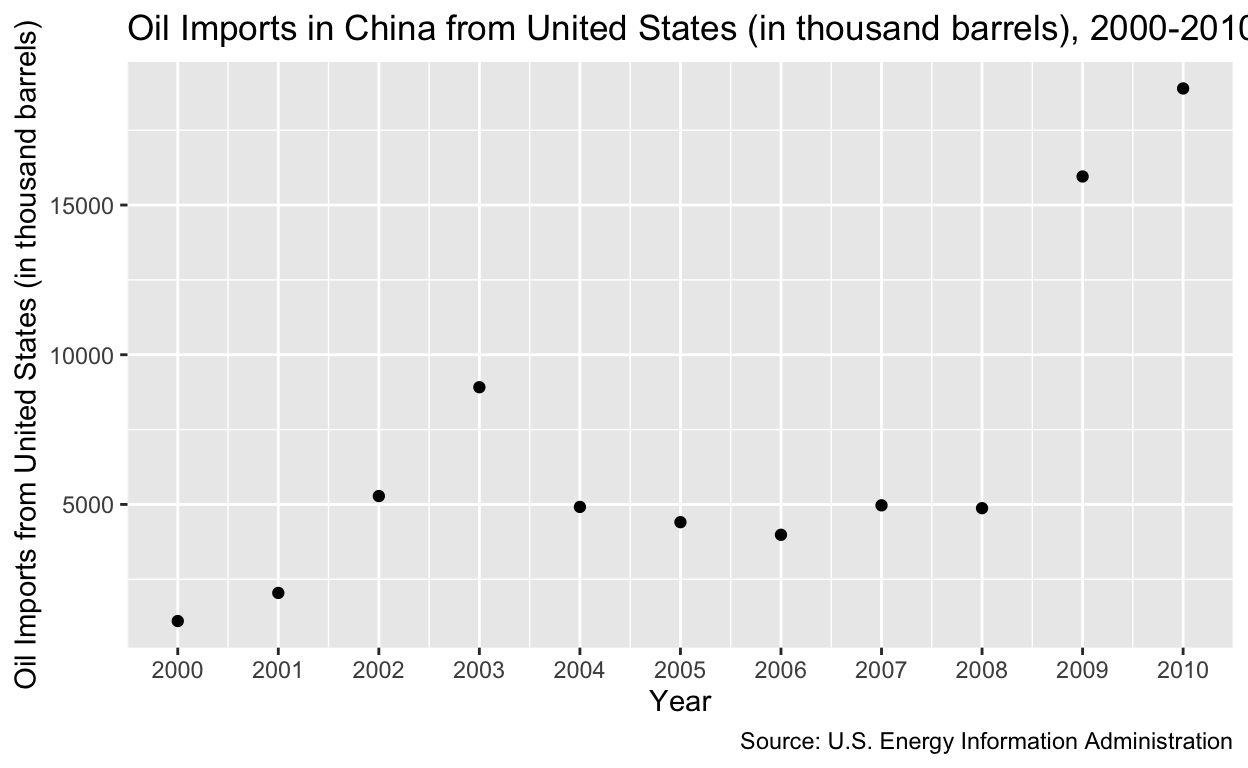
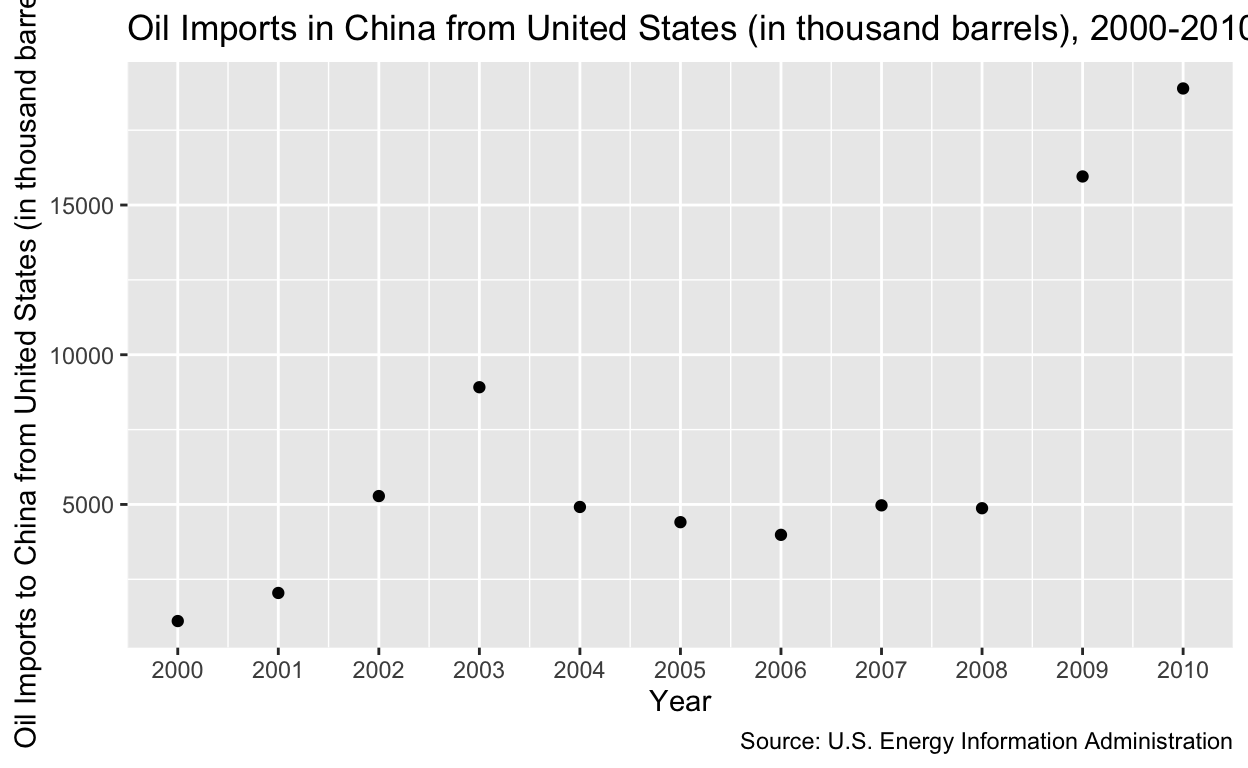
final commit of 2023?

Changed region(s): [[0.0, 0.0, 0.0312, 0.9688]]

diff --git a/index.html b/index.html
@@ -115,7 +115,7 @@ code span.wa { color: #5e5e5e; font-style: italic; } /* Warning */
   <!--/radix_placeholder_rmarkdown_metadata-->
   
   <script type="text/json" id="radix-resource-manifest">
-  {"type":"character","attributes":{},"value":["index_files/anchor-4.2.2/anchor.min.js","index_files/bowser-1.9.3/bowser.min.js","index_files/distill-2.2.21/template.v2.js","index_files/figure-html5/unnamed-chunk-1-1.png","index_files/figure-html5/unnamed-chunk-1-2.png","index_files/header-attrs-2.17/header-attrs.js","index_files/header-attrs-2.24/header-attrs.js","index_files/jquery-3.6.0/jquery-3.6.0.js","index_files/jquery-3.6.0/jquery-3.6.0.min.js","index_files/jquery-3.6.0/jquery-3.6.0.min.map","index_files/popper-2.6.0/popper.min.js","index_files/tippy-6.2.7/tippy-bundle.umd.min.js","index_files/tippy-6.2.7/tippy-light-border.css","index_files/tippy-6.2.7/tippy.css","index_files/tippy-6.2.7/tippy.umd.min.js","index_files/webcomponents-2.0.0/webcomponents.js","militarydata.xls"]}
+  {"type":"character","attributes":{},"value":["index_files/anchor-4.2.2/anchor.min.js","index_files/bowser-1.9.3/bowser.min.js","index_files/distill-2.2.21/template.v2.js","index_files/figure-html5/unnamed-chunk-1-1.png","index_files/figure-html5/unnamed-chunk-1-2.png","index_files/figure-html5/unnamed-chunk-2-1.png","index_files/figure-html5/unnamed-chunk-3-1.png","index_files/header-attrs-2.17/header-attrs.js","index_files/header-attrs-2.24/header-attrs.js","index_files/jquery-3.6.0/jquery-3.6.0.js","index_files/jquery-3.6.0/jquery-3.6.0.min.js","index_files/jquery-3.6.0/jquery-3.6.0.min.map","index_files/popper-2.6.0/popper.min.js","index_files/tippy-6.2.7/tippy-bundle.umd.min.js","index_files/tippy-6.2.7/tippy-light-border.css","index_files/tippy-6.2.7/tippy.css","index_files/tippy-6.2.7/tippy.umd.min.js","index_files/webcomponents-2.0.0/webcomponents.js","militarydata.xls","MTTEXCH1m.xls"]}
   </script>
   <!--radix_placeholder_navigation_in_header-->
   <!--/radix_placeholder_navigation_in_header-->
@@ -1517,58 +1517,79 @@ code span.wa { color: #5e5e5e; font-style: italic; } /* Warning */
 </div>
 
 <div class="d-article">
-<h2 id="part-1-project-thoughts">Part 1: Project thoughts</h2>
-<p>I am interested in exploring data related to the relationship between the US exports of crude oil to China and China’s military spending from 2000-2010.</p>
-<h2 id="part-2-proposal-for-project">Part 2: Proposal for Project</h2>
-<p>My research question is: To what extent are China’s foreign oil trade policies motivated by increasing military capabilities?</p>
-<p>I hypothesize that China’s foreign oil trade policy, particularly ith the United States both drives and is driven by strengthening military capabilities. I hypothesize that this could be explained by historical memory and China’s past with the century of humiliation. I will use data from the U.S. Energy Information Administration from 2000-2010 and from the World Bank. The explanatory variable of interest is the U.S. exports of crude oil to China in thousands of barrels, and the outcome variable of interest is military expenditures (% GDP) in China.</p>
-<p>The observed pattern would provide support for my hypothesis in observing a correlation between a greater dependency on US oil exports and an increase in military expenditures. An increasing pattern would suggest that as China’s reliance on US crude oil increases, military spending in China also increases. This result would accept my hypothesis. The observed pattern that would disprove my hypothesis is that a decreasing pattern would suggest a negative relationship such that as dependence on US oil increase, military spending decreases.</p>
+<h2 id="final-report">Final Report:</h2>
+<h2 id="introduction">Introduction:</h2>
+<p>I am interested in exploring data related to the relationship between the China’s imports of oil from the United States and China’s military spending from 2000-2010. My research question is: To what extent are China’s foreign oil trade policies motivated by increasing military capabilities? I hypothesize that as China’s strengthens military capabilities, measured by military expenditures, China also increases oil imports from the United States. I hypothesize that this could be explained by historical memory and China’s past with the century of humiliation.</p>
+<p>Understanding this relationship is important because as the United States and China compete for dominance in the international order, energy security becomes increasingly relevant to the power dynamics at play. China’s increasing dependency on foreign oil represents a vulnerability in the country’s economic and political stability. Furthermore, the United States also largely controls the Persian Gulf’s supply of oil, another major source of oil for China. Evaluating the relationship between China’s military expenditures and oil imports from the United States could provide insight into the key drivers of China’s need for oil and highlight important considerations in international relations and foreign policy.</p>
+<h2 id="data-section">Data Section:</h2>
+<p>I will use oil import data from the U.S. Energy Information Administration from 2000-2010 and data on China’s military expenditures from The World Bank from the same period. Both measures are time-series data. The outcome variable of interest is the U.S. exports of crude oil to China in thousands of barrels, and the explanatory variable of interest is military expenditures (% GDP) in China. The observed pattern that would provide support for my hypothesis in observing a correlation between an increase in military expenditures with an associated increase in China’s imports of oil from the United States. A positive coefficient or increasing trend would suggest that as China’s military spending increases, the United States’ import of oil also increases. This result would accept my hypothesis. The observed pattern that would disprove my hypothesis is an inverse relationship such that as military spending decreases, the import of United States oil to China increases, or vice versa.</p>
+<p>This research design is not cross-sectional, randomized, before-and-after, or differences-in-differences. Rather, my design study is a time-series design that includes data collected over time for both the independent and dependent variables. Analyzing the same time period for both variables and running a regression could illuminate a possible relationship between the two variables measured over time.</p>
+<p>The following plot depicts the dependent variable, oil imports from the United States to China.</p>
 <div class="layout-chunk" data-layout="l-body">
 <div class="sourceCode">
-<pre class="sourceCode r"><code class="sourceCode r"><span><span class='kw'><a href='https://rdrr.io/r/base/library.html'>library</a></span><span class='op'>(</span><span class='va'><a href='https://tidyverse.tidyverse.org'>tidyverse</a></span><span class='op'>)</span></span>
+<pre class="sourceCode r"><code class="sourceCode r"><span><span class='co'># Loading libraries</span></span>
+<span><span class='kw'><a href='https://rdrr.io/r/base/library.html'>library</a></span><span class='op'>(</span><span class='va'><a href='https://tidyverse.tidyverse.org'>tidyverse</a></span><span class='op'>)</span></span>
 <span><span class='kw'><a href='https://rdrr.io/r/base/library.html'>library</a></span><span class='op'>(</span><span class='va'><a href='https://readxl.tidyverse.org'>readxl</a></span><span class='op'>)</span></span>
 <span><span class='kw'><a href='https://rdrr.io/r/base/library.html'>library</a></span><span class='op'>(</span><span class='va'><a href='https://dplyr.tidyverse.org'>dplyr</a></span><span class='op'>)</span></span>
 <span> </span>
-<span><span class='co'># Data from  U.S. Energy Information Administration: https://www.eia.gov/dnav/pet/hist/LeafHandler.ashx?n=PET&amp;s=MTTEXCH1&amp;f=M</span></span>
-<span><span class='va'>data_oil</span> <span class='op'>&lt;-</span> <span class='fu'><a href='https://rdrr.io/r/base/data.frame.html'>data.frame</a></span><span class='op'>(</span>Year <span class='op'>=</span> <span class='fu'><a href='https://rdrr.io/r/base/c.html'>c</a></span><span class='op'>(</span><span class='fl'>2000</span>, <span class='fl'>2001</span>, <span class='fl'>2002</span>, <span class='fl'>2003</span>, <span class='fl'>2004</span>, <span class='fl'>2005</span>, <span class='fl'>2006</span>, <span class='fl'>2007</span>, <span class='fl'>2008</span>, <span class='fl'>2009</span>, <span class='fl'>2010</span><span class='op'>)</span>,</span>
-<span>                   oil_import <span class='op'>=</span> <span class='fu'><a href='https://rdrr.io/r/base/c.html'>c</a></span><span class='op'>(</span><span class='fl'>1105</span>, <span class='fl'>2044</span>, <span class='fl'>5280</span>, <span class='fl'>8915</span>, <span class='fl'>4917</span>, <span class='fl'>4407</span> , <span class='fl'>3986</span> , <span class='fl'>4970</span> , <span class='fl'>4875</span>, <span class='fl'>15954</span>, <span class='fl'>18894</span><span class='op'>)</span><span class='op'>)</span></span>
+<span><span class='co'># Load data from  U.S. Energy Information Administration</span></span>
+<span><span class='va'>data_oil</span> <span class='op'>&lt;-</span> <span class='fu'><a href='https://readxl.tidyverse.org/reference/read_excel.html'>read_excel</a></span><span class='op'>(</span><span class='st'>"MTTEXCH1m.xls"</span>, sheet <span class='op'>=</span> <span class='st'>"Data 1"</span><span class='op'>)</span></span>
+<span><span class='va'>data_oil</span> <span class='op'>&lt;-</span> <span class='fu'><a href='https://rdrr.io/r/base/transform.html'>transform</a></span><span class='op'>(</span><span class='va'>data_oil</span>, Year <span class='op'>=</span> <span class='fu'><a href='https://rdrr.io/r/base/numeric.html'>as.numeric</a></span><span class='op'>(</span><span class='va'>Year</span><span class='op'>)</span><span class='op'>)</span></span>
+<span><span class='va'>data_oil</span> <span class='op'>&lt;-</span> <span class='fu'><a href='https://rdrr.io/r/base/transform.html'>transform</a></span><span class='op'>(</span><span class='va'>data_oil</span>, U.S..Exports.to.China.of.Crude.Oil.and.Petroleum.Products..Thousand.Barrels. <span class='op'>=</span> </span>
+<span>                        <span class='fu'><a href='https://rdrr.io/r/base/numeric.html'>as.numeric</a></span><span class='op'>(</span><span class='va'>U.S..Exports.to.China.of.Crude.Oil.and.Petroleum.Products..Thousand.Barrels.</span><span class='op'>)</span><span class='op'>)</span></span>
+<span></span>
+<span><span class='co'># Clean data by year and sum the total oil imports for each year</span></span>
+<span><span class='va'>data_oil</span> <span class='op'>&lt;-</span> <span class='va'>data_oil</span> <span class='op'>|&gt;</span></span>
+<span>  <span class='fu'><a href='https://dplyr.tidyverse.org/reference/filter.html'>filter</a></span><span class='op'>(</span><span class='va'>Year</span> <span class='op'>&gt;=</span> <span class='fl'>2000</span> <span class='op'>&amp;</span> <span class='va'>Year</span> <span class='op'>&lt;=</span> <span class='fl'>2010</span><span class='op'>)</span> <span class='op'>|&gt;</span></span>
+<span>  <span class='fu'><a href='https://dplyr.tidyverse.org/reference/group_by.html'>group_by</a></span><span class='op'>(</span><span class='va'>Year</span><span class='op'>)</span> <span class='op'>|&gt;</span></span>
+<span>  <span class='fu'><a href='https://dplyr.tidyverse.org/reference/mutate.html'>mutate</a></span><span class='op'>(</span>oil_import <span class='op'>=</span> <span class='fu'><a href='https://rdrr.io/r/base/sum.html'>sum</a></span><span class='op'>(</span><span class='va'>U.S..Exports.to.China.of.Crude.Oil.and.Petroleum.Products..Thousand.Barrels.</span><span class='op'>)</span><span class='op'>)</span> <span class='op'>|&gt;</span></span>
+<span>  <span class='fu'><a href='https://dplyr.tidyverse.org/reference/distinct.html'>distinct</a></span><span class='op'>(</span><span class='va'>Year</span>, <span class='va'>oil_import</span><span class='op'>)</span></span>
+<span></span>
+<span><span class='co'># Plotting dependent variable: year on x-axis, oil imports on y-axis</span></span>
 <span><span class='va'>plot</span> <span class='op'>&lt;-</span> </span>
 <span>  <span class='fu'><a href='https://ggplot2.tidyverse.org/reference/ggplot.html'>ggplot</a></span><span class='op'>(</span>data <span class='op'>=</span> <span class='va'>data_oil</span>,</span>
 <span>                    mapping <span class='op'>=</span> <span class='fu'><a href='https://ggplot2.tidyverse.org/reference/aes.html'>aes</a></span><span class='op'>(</span>x <span class='op'>=</span> <span class='va'>Year</span>,</span>
 <span>                                  y <span class='op'>=</span> <span class='va'>oil_import</span><span class='op'>)</span><span class='op'>)</span> <span class='op'>+</span></span>
 <span>  <span class='fu'><a href='https://ggplot2.tidyverse.org/reference/geom_point.html'>geom_point</a></span><span class='op'>(</span><span class='op'>)</span> <span class='op'>+</span> <span class='fu'><a href='https://ggplot2.tidyverse.org/reference/labs.html'>labs</a></span><span class='op'>(</span>x <span class='op'>=</span> <span class='st'>"Year"</span>,</span>
-<span>                        y <span class='op'>=</span> <span class='st'>"Oil Imports from United States (in thousand barrels)"</span>,</span>
+<span>                        y <span class='op'>=</span> <span class='st'>"Oil Imports to China from United States (in thousand barrels)"</span>,</span>
 <span>                      title <span class='op'>=</span> <span class='st'>"Oil Imports in China from United States (in thousand barrels), 2000-2010"</span>, caption <span class='op'>=</span> <span class='st'>"Source: U.S. Energy Information Administration"</span><span class='op'>)</span> <span class='op'>+</span></span>
 <span>  <span class='fu'><a href='https://ggplot2.tidyverse.org/reference/scale_continuous.html'>scale_x_continuous</a></span><span class='op'>(</span>breaks <span class='op'>=</span> <span class='fu'><a href='https://rdrr.io/r/base/c.html'>c</a></span><span class='op'>(</span><span class='fl'>2000</span>, <span class='fl'>2001</span>, <span class='fl'>2002</span>, <span class='fl'>2003</span>, <span class='fl'>2004</span>, <span class='fl'>2005</span>, <span class='fl'>2006</span>, <span class='fl'>2007</span>, <span class='fl'>2008</span>, <span class='fl'>2009</span>, <span class='fl'>2010</span><span class='op'>)</span><span class='op'>)</span></span>
 <span><span class='va'>plot</span></span></code></pre>
 </div>
-<img src="index_files/figure-html5/unnamed-chunk-1-1.png" width="624" />
+<p><img src="index_files/figure-html5/unnamed-chunk-1-1.png" width="624" /></p>
+</div>
+<p>The following plot depicts the independent variable, China’s military expenditures.</p>
+<div class="layout-chunk" data-layout="l-body">
 <div class="sourceCode">
-<pre class="sourceCode r"><code class="sourceCode r"><span><span class='va'>data_military</span> <span class='op'>&lt;-</span> <span class='fu'><a href='https://readxl.tidyverse.org/reference/read_excel.html'>read_excel</a></span><span class='op'>(</span><span class='st'>"militarydata.xls"</span>, sheet <span class='op'>=</span> <span class='st'>"Data"</span><span class='op'>)</span></span>
+<pre class="sourceCode r"><code class="sourceCode r"><span><span class='co'># Load data from The World Bank &amp; subset data to clean</span></span>
+<span><span class='va'>data_military</span> <span class='op'>&lt;-</span> <span class='fu'><a href='https://readxl.tidyverse.org/reference/read_excel.html'>read_excel</a></span><span class='op'>(</span><span class='st'>"militarydata.xls"</span>, sheet <span class='op'>=</span> <span class='st'>"Data"</span><span class='op'>)</span></span>
 <span><span class='va'>data_military</span> <span class='op'>&lt;-</span> <span class='va'>data_military</span> <span class='op'>|&gt;</span></span>
 <span>  <span class='fu'><a href='https://dplyr.tidyverse.org/reference/filter.html'>filter</a></span><span class='op'>(</span><span class='va'>`Country Name`</span> <span class='op'>==</span> <span class='st'>"China"</span><span class='op'>)</span> <span class='op'>|&gt;</span></span>
 <span>  <span class='fu'><a href='https://rdrr.io/r/base/subset.html'>subset</a></span><span class='op'>(</span>select <span class='op'>=</span> <span class='op'>-</span><span class='fu'><a href='https://rdrr.io/r/base/c.html'>c</a></span><span class='op'>(</span><span class='va'>`Country Name`</span>, <span class='va'>`Country Code`</span>, <span class='va'>`Indicator Name`</span>, <span class='va'>`Indicator Code`</span><span class='op'>)</span><span class='op'>)</span></span>
 <span></span>
 <span><span class='va'>data_military</span> <span class='op'>&lt;-</span> <span class='va'>data_military</span> <span class='op'>|&gt;</span></span>
 <span>  <span class='fu'><a href='https://tidyr.tidyverse.org/reference/pivot_longer.html'>pivot_longer</a></span><span class='op'>(</span>cols<span class='op'>=</span> <span class='fu'><a href='https://tidyselect.r-lib.org/reference/everything.html'>everything</a></span><span class='op'>(</span><span class='op'>)</span><span class='op'>)</span> </span>
-<span>  </span>
+<span></span>
+<span><span class='co'># Filtering data by year and making numbers more manageable</span></span>
 <span><span class='va'>data_military</span> <span class='op'>&lt;-</span> <span class='va'>data_military</span> <span class='op'>|&gt;</span></span>
 <span>  <span class='fu'><a href='https://dplyr.tidyverse.org/reference/filter.html'>filter</a></span><span class='op'>(</span><span class='va'>name</span> <span class='op'>&gt;=</span> <span class='fl'>2000</span> <span class='op'>&amp;</span> <span class='va'>name</span> <span class='op'>&lt;=</span> <span class='fl'>2010</span><span class='op'>)</span> <span class='op'>|&gt;</span></span>
-<span>  <span class='fu'><a href='https://dplyr.tidyverse.org/reference/mutate.html'>mutate</a></span><span class='op'>(</span>new_value <span class='op'>=</span> <span class='va'>value</span> <span class='op'>/</span> <span class='fl'>1000000000</span><span class='op'>)</span></span>
+<span>  <span class='fu'><a href='https://dplyr.tidyverse.org/reference/mutate.html'>mutate</a></span><span class='op'>(</span>military_expenditures <span class='op'>=</span> <span class='va'>value</span> <span class='op'>/</span> <span class='fl'>1000000000</span><span class='op'>)</span></span>
 <span></span>
 <span><span class='va'>data_military</span> <span class='op'>&lt;-</span> <span class='va'>data_military</span> <span class='op'>|&gt;</span></span>
 <span>  <span class='fu'><a href='https://dplyr.tidyverse.org/reference/rename.html'>rename</a></span><span class='op'>(</span><span class='st'>"Year"</span> <span class='op'>=</span> <span class='st'>"name"</span><span class='op'>)</span></span>
 <span>             </span>
 <span><span class='va'>data_military</span> <span class='op'>&lt;-</span> <span class='fu'><a href='https://rdrr.io/r/base/transform.html'>transform</a></span><span class='op'>(</span><span class='va'>data_military</span>, Year <span class='op'>=</span> <span class='fu'><a href='https://rdrr.io/r/base/numeric.html'>as.numeric</a></span><span class='op'>(</span><span class='va'>Year</span><span class='op'>)</span><span class='op'>)</span></span>
 <span></span>
-<span><span class='va'>data_military</span> <span class='op'>&lt;-</span> <span class='va'>data_military</span> <span class='op'>|&gt;</span></span>
+<span><span class='co'># Merging data on military expenditures and data on oil production</span></span>
+<span><span class='va'>data_merged</span> <span class='op'>&lt;-</span> <span class='va'>data_military</span> <span class='op'>|&gt;</span></span>
 <span>  <span class='fu'><a href='https://dplyr.tidyverse.org/reference/mutate-joins.html'>left_join</a></span><span class='op'>(</span><span class='va'>data_oil</span>, by <span class='op'>=</span> <span class='st'>"Year"</span><span class='op'>)</span> <span class='op'>|&gt;</span></span>
 <span>    <span class='fu'><a href='https://rdrr.io/r/base/subset.html'>subset</a></span><span class='op'>(</span>select <span class='op'>=</span> <span class='op'>-</span><span class='fu'><a href='https://rdrr.io/r/base/c.html'>c</a></span><span class='op'>(</span><span class='va'>`value`</span><span class='op'>)</span><span class='op'>)</span></span>
 <span></span>
+<span><span class='co'># Plotting independent variable: year on x-axis and military expenditures on y-axis</span></span>
 <span><span class='va'>plot_2</span> <span class='op'>&lt;-</span> </span>
-<span>  <span class='fu'><a href='https://ggplot2.tidyverse.org/reference/ggplot.html'>ggplot</a></span><span class='op'>(</span>data <span class='op'>=</span> <span class='va'>data_military</span>,</span>
+<span>  <span class='fu'><a href='https://ggplot2.tidyverse.org/reference/ggplot.html'>ggplot</a></span><span class='op'>(</span>data <span class='op'>=</span> <span class='va'>data_merged</span>,</span>
 <span>                    mapping <span class='op'>=</span> <span class='fu'><a href='https://ggplot2.tidyverse.org/reference/aes.html'>aes</a></span><span class='op'>(</span>x <span class='op'>=</span> <span class='va'>Year</span>,</span>
-<span>                                  y <span class='op'>=</span> <span class='va'>new_value</span><span class='op'>)</span><span class='op'>)</span> <span class='op'>+</span></span>
+<span>                                  y <span class='op'>=</span> <span class='va'>military_expenditures</span><span class='op'>)</span><span class='op'>)</span> <span class='op'>+</span></span>
 <span>  <span class='fu'><a href='https://ggplot2.tidyverse.org/reference/geom_point.html'>geom_point</a></span><span class='op'>(</span><span class='op'>)</span> <span class='op'>+</span> <span class='fu'><a href='https://ggplot2.tidyverse.org/reference/labs.html'>labs</a></span><span class='op'>(</span>x <span class='op'>=</span> <span class='st'>"Year"</span>,</span>
 <span>                        y <span class='op'>=</span> <span class='st'>"China Military Expenditures (USD billions)"</span>,</span>
 <span>                      title <span class='op'>=</span> <span class='st'>"China Military Expenditures (USD billions), 2000-2010"</span>,</span>
@@ -1576,17 +1597,35 @@ code span.wa { color: #5e5e5e; font-style: italic; } /* Warning */
 <span>    <span class='fu'><a href='https://ggplot2.tidyverse.org/reference/scale_continuous.html'>scale_x_continuous</a></span><span class='op'>(</span>breaks <span class='op'>=</span> <span class='fu'><a href='https://rdrr.io/r/base/c.html'>c</a></span><span class='op'>(</span><span class='fl'>2000</span>, <span class='fl'>2001</span>, <span class='fl'>2002</span>, <span class='fl'>2003</span>, <span class='fl'>2004</span>, <span class='fl'>2005</span>, <span class='fl'>2006</span>, <span class='fl'>2007</span>, <span class='fl'>2008</span>, <span class='fl'>2009</span>, <span class='fl'>2010</span><span class='op'>)</span><span class='op'>)</span></span>
 <span><span class='va'>plot_2</span></span></code></pre>
 </div>
-<p><img src="index_files/figure-html5/unnamed-chunk-1-2.png" width="624" /></p>
+<p><img src="index_files/figure-html5/unnamed-chunk-2-1.png" width="624" /></p>
 </div>
-<p>The coefficient of 0.0041704 for the explanatory variable, oil imports from the United States into China, is extremely small, signifying that there is an insignificant correlation between US imports of oil into China and military expenditures. This does not support my hypothesis and shows that oil imports from the United States do not have a significant relationship with military expenditures.</p>
+<h2 id="results">Results:</h2>
 <div class="layout-chunk" data-layout="l-body">
 <div class="sourceCode">
-<pre class="sourceCode r"><code class="sourceCode r"><span><span class='kw'><a href='https://rdrr.io/r/base/library.html'>library</a></span><span class='op'>(</span><span class='va'><a href='https://broom.tidymodels.org/'>broom</a></span><span class='op'>)</span></span>
-<span><span class='va'>fit_1</span> <span class='op'>&lt;-</span> <span class='fu'><a href='https://rdrr.io/r/stats/lm.html'>lm</a></span><span class='op'>(</span><span class='va'>new_value</span> <span class='op'>~</span> <span class='va'>oil_import</span>, data <span class='op'>=</span> <span class='va'>data_military</span><span class='op'>)</span></span>
+<pre class="sourceCode r"><code class="sourceCode r"><span><span class='co'># Plotting the analysis; both the independent and dependent variables</span></span>
+<span><span class='va'>plot_results</span> <span class='op'>&lt;-</span> </span>
+<span>  <span class='fu'><a href='https://ggplot2.tidyverse.org/reference/ggplot.html'>ggplot</a></span><span class='op'>(</span>data <span class='op'>=</span> <span class='va'>data_merged</span>,</span>
+<span>                    mapping <span class='op'>=</span> <span class='fu'><a href='https://ggplot2.tidyverse.org/reference/aes.html'>aes</a></span><span class='op'>(</span>x <span class='op'>=</span> <span class='va'>military_expenditures</span>,</span>
+<span>                                  y <span class='op'>=</span> <span class='va'>oil_import</span><span class='op'>)</span><span class='op'>)</span> <span class='op'>+</span></span>
+<span>  <span class='fu'><a href='https://ggplot2.tidyverse.org/reference/geom_point.html'>geom_point</a></span><span class='op'>(</span><span class='op'>)</span> <span class='op'>+</span> <span class='fu'><a href='https://ggplot2.tidyverse.org/reference/labs.html'>labs</a></span><span class='op'>(</span>x <span class='op'>=</span> <span class='st'>"China Military Expenditures (USD billions), 2000-2010"</span>,</span>
+<span>                        y <span class='op'>=</span> <span class='st'>"Oil Imports from United States (in thousand barrels)"</span>,</span>
+<span>                      title <span class='op'>=</span> <span class='st'>"China's Military Expenditures and Oil Imports from the U.S., 2000-2010"</span>,</span>
+<span>                      caption <span class='op'>=</span> <span class='st'>"Source: The World Bank, U.S. Energy Information Administration"</span><span class='op'>)</span> <span class='op'>+</span></span>
+<span>  <span class='fu'><a href='https://ggplot2.tidyverse.org/reference/geom_smooth.html'>geom_smooth</a></span><span class='op'>(</span>method <span class='op'>=</span> <span class='va'>lm</span>, se<span class='op'>=</span><span class='cn'>FALSE</span><span class='op'>)</span></span>
+<span><span class='va'>plot_results</span></span></code></pre>
+</div>
+<p><img src="index_files/figure-html5/unnamed-chunk-3-1.png" width="624" /></p>
+</div>
+<p>The scatterplot depicting the independent variable, China’s military expenditures, and the dependent variable, oil imports from the United States to China, depict an increasing, positive trend. The line of best fit is an increasing, positive line which may indicate a positive relationship between military expenditures and oil imports. This means that as China’s military expenditures increase, oil imports from the United States to China also increases.</p>
+<div class="layout-chunk" data-layout="l-body">
+<div class="sourceCode">
+<pre class="sourceCode r"><code class="sourceCode r"><span><span class='co'># Run a regression analysis: oil imports as the explanatory variable, military expenditures as outcome variable</span></span>
+<span><span class='kw'><a href='https://rdrr.io/r/base/library.html'>library</a></span><span class='op'>(</span><span class='va'><a href='https://broom.tidymodels.org/'>broom</a></span><span class='op'>)</span></span>
+<span><span class='va'>fit_1</span> <span class='op'>&lt;-</span> <span class='fu'><a href='https://rdrr.io/r/stats/lm.html'>lm</a></span><span class='op'>(</span><span class='va'>oil_import</span> <span class='op'>~</span> <span class='va'>military_expenditures</span>, data <span class='op'>=</span> <span class='va'>data_merged</span><span class='op'>)</span></span>
 <span><span class='va'>fit_1</span> <span class='op'>|&gt;</span></span>
 <span>  <span class='fu'>broom</span><span class='fu'>::</span><span class='fu'><a href='https://generics.r-lib.org/reference/tidy.html'>tidy</a></span><span class='op'>(</span><span class='op'>)</span> <span class='op'>|&gt;</span></span>
-<span>  <span class='fu'><a href='https://dplyr.tidyverse.org/reference/select.html'>select</a></span><span class='op'>(</span><span class='va'>term</span>, <span class='va'>estimate</span><span class='op'>)</span> <span class='op'>|&gt;</span>  </span>
-<span>  <span class='fu'>knitr</span><span class='fu'>::</span><span class='fu'><a href='https://rdrr.io/pkg/knitr/man/kable.html'>kable</a></span><span class='op'>(</span><span class='op'>)</span></span></code></pre>
+<span>  <span class='fu'><a href='https://dplyr.tidyverse.org/reference/select.html'>select</a></span><span class='op'>(</span><span class='va'>term</span>, <span class='va'>estimate</span><span class='op'>)</span> <span class='op'>|&gt;</span></span>
+<span>  <span class='fu'>knitr</span><span class='fu'>::</span><span class='fu'><a href='https://rdrr.io/pkg/knitr/man/kable.html'>kable</a></span><span class='op'>(</span>digits <span class='op'>=</span> <span class='fl'>3</span><span class='op'>)</span></span></code></pre>
 </div>
 <table>
 <thead>
@@ -1598,15 +1637,25 @@ code span.wa { color: #5e5e5e; font-style: italic; } /* Warning */
 <tbody>
 <tr class="odd">
 <td style="text-align: left;">(Intercept)</td>
-<td style="text-align: right;">24.8407135</td>
+<td style="text-align: right;">-1633.442</td>
 </tr>
 <tr class="even">
-<td style="text-align: left;">oil_import</td>
-<td style="text-align: right;">0.0041704</td>
+<td style="text-align: left;">military_expenditures</td>
+<td style="text-align: right;">158.837</td>
 </tr>
 </tbody>
 </table>
 </div>
+<p>The coefficient of 158.8 for the explanatory variable, China’s military expenditures, is large and positive, signifying that there is a statistically significant coefficient. This may indicate a positive correlation between military expenditures and China’s import of US oil such that as military expenditures increase, oil imports from the United States also increase. This supports my original hypothesis that military expenditures in China may have a positive relationship with China’s import of oil from the United States. However, given the many possible confounders or alternative explanations, we cannot interpret this relationship causally. However, we can suggest that there does exist a positive, statistically significant relationship between China’s military expenditures and China’s import of oil from the United States.</p>
+<h2 id="conclusion">Conclusion</h2>
+<p>The scatterplot and regression analysis both indicated a positive, increasing relationship between military expenditures and oil exports, suggesting that as military expenditures increase, oil imports also increase. This supports my hypothesis that as China’s military expenditures increase, oil imports from the United States also increase. However, there are limitations. There are possible vulnerabilities in this data analysis such as possible confounders that could undermine the relationship. A possible confounder could be the increase in China’s population from 2000-2010, which may result in both an increase in oil imports broadly and an increase in China’s military funding to support the security of a growing population. Additionally, while the United States plays a key role in Chinese foreign policy, comparing the oil imports from other countries to China in relation to the United States could provide a more substantive finding. With more time and money, I would expand this research design to consider possible control variables, such as the growing population in China, compare the oil imports from the United States in relation to other countries, and zoom in on the top countries that China imports oil from. I would also explore data analysis for alternative explanations. Additionally, military expenditures as a variable is very broad, so perhaps focusing on military funding that is allocated specifically for international security issues could be more illuminating.</p>
+<p>From previous milestones:</p>
+<h2 id="part-1-project-thoughts">Part 1: Project thoughts</h2>
+<p>I am interested in exploring data related to the relationship between the US exports of crude oil to China and China’s military spending from 2000-2010.</p>
+<h2 id="part-2-proposal-for-project">Part 2: Proposal for Project</h2>
+<p>My research question is: To what extent are China’s foreign oil trade policies motivated by increasing military capabilities?</p>
+<p>I hypothesize that China’s foreign oil trade policy, particularly ith the United States both drives and is driven by strengthening military capabilities. I hypothesize that this could be explained by historical memory and China’s past with the century of humiliation. I will use data from the U.S. Energy Information Administration from 2000-2010 and from the World Bank. The explanatory variable of interest is the U.S. exports of crude oil to China in thousands of barrels, and the outcome variable of interest is military expenditures (% GDP) in China.</p>
+<p>The observed pattern would provide support for my hypothesis in observing a correlation between a greater dependency on US oil exports and an increase in military expenditures. An increasing pattern would suggest that as China’s reliance on US crude oil increases, military spending in China also increases. This result would accept my hypothesis. The observed pattern that would disprove my hypothesis is that a decreasing pattern would suggest a negative relationship such that as dependence on US oil increase, military spending decreases.</p>
 <div class="sourceCode" id="cb1"><pre class="sourceCode r distill-force-highlighting-css"><code class="sourceCode r"></code></pre></div>
 <!--radix_placeholder_article_footer-->
 <!--/radix_placeholder_article_footer-->
